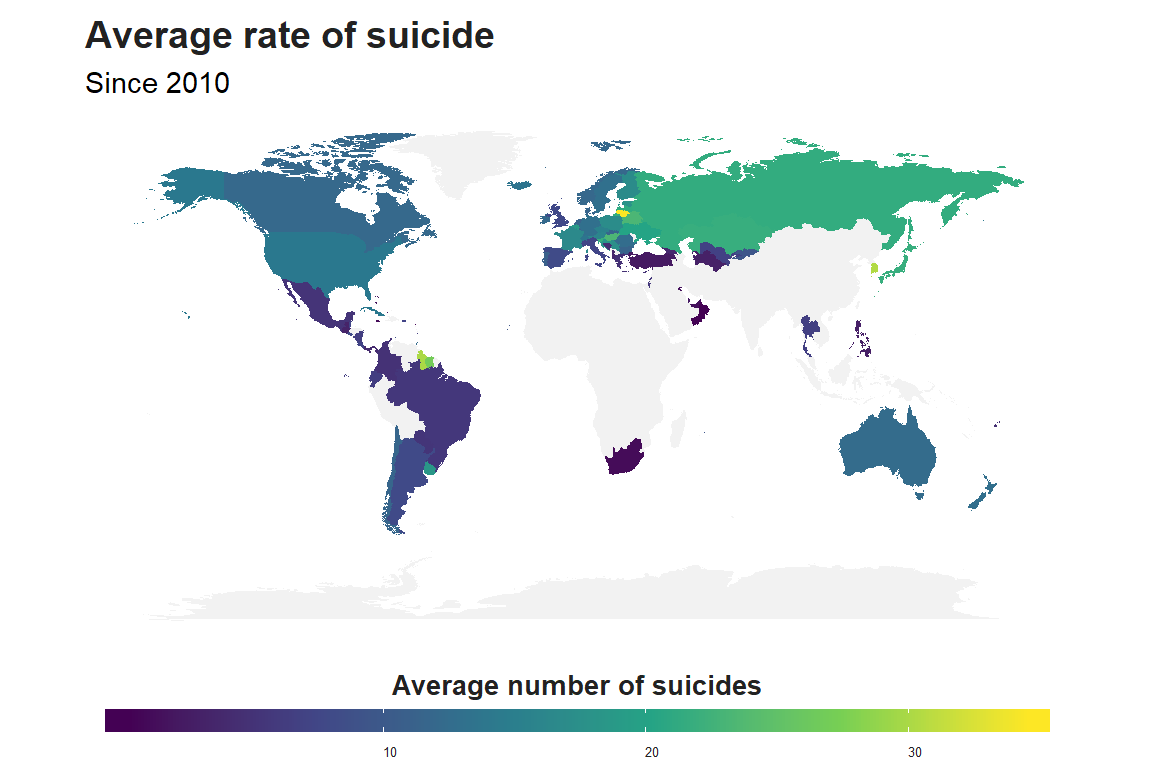
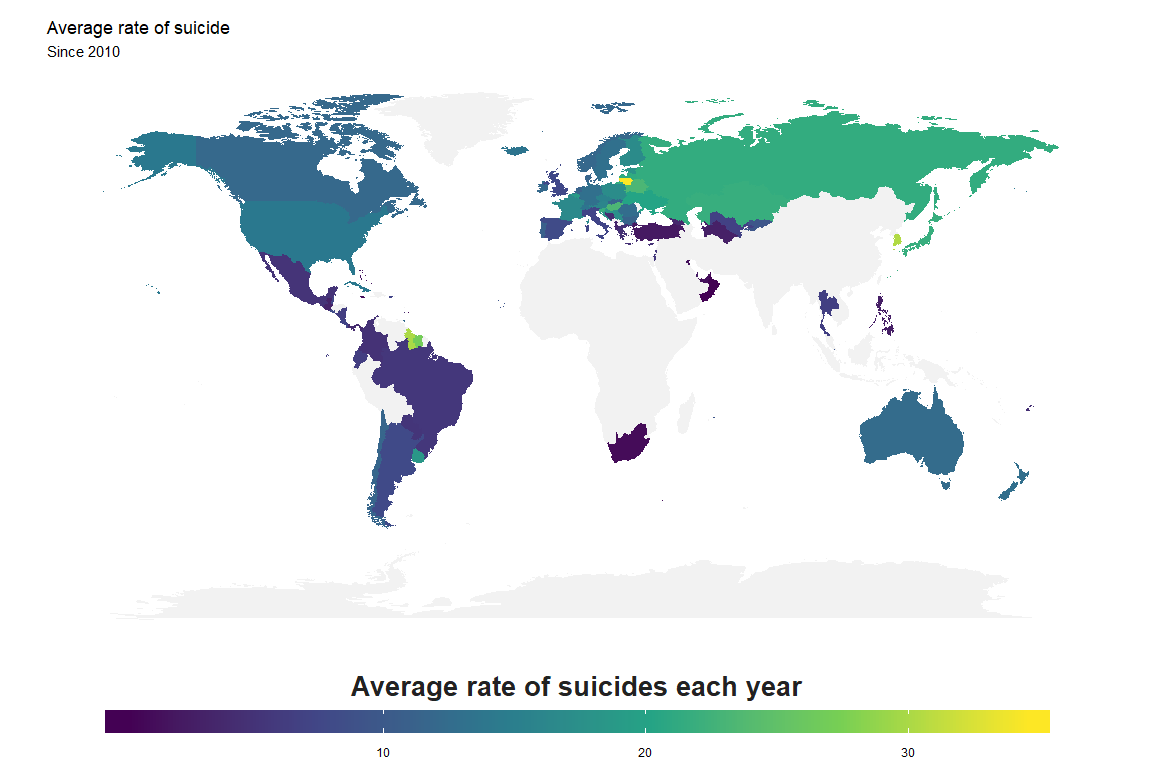
pic caption

diff --git a/README.md b/README.md
@@ -605,7 +605,7 @@ Total number of suicide since 2010
       group_by(country) %>% summarise(n = mean(suicides_rate, na.rm = T)) %>% filter(!is.na(n)) %>% 
       left_join(world, by = c("country" = "region")) %>%  
       geom_polygon(data = ., aes(fill = n))  + 
-      scale_fill_viridis_c(name = "Average number of suicides",
+      scale_fill_viridis_c(name = "Average rate of suicides each year",
                            guide = guide_colorbar(title.position = "top", 
                                                   direction = "horizontal")) +
       labs(title = "Average rate of suicide", subtitle = "Since 2010") +
